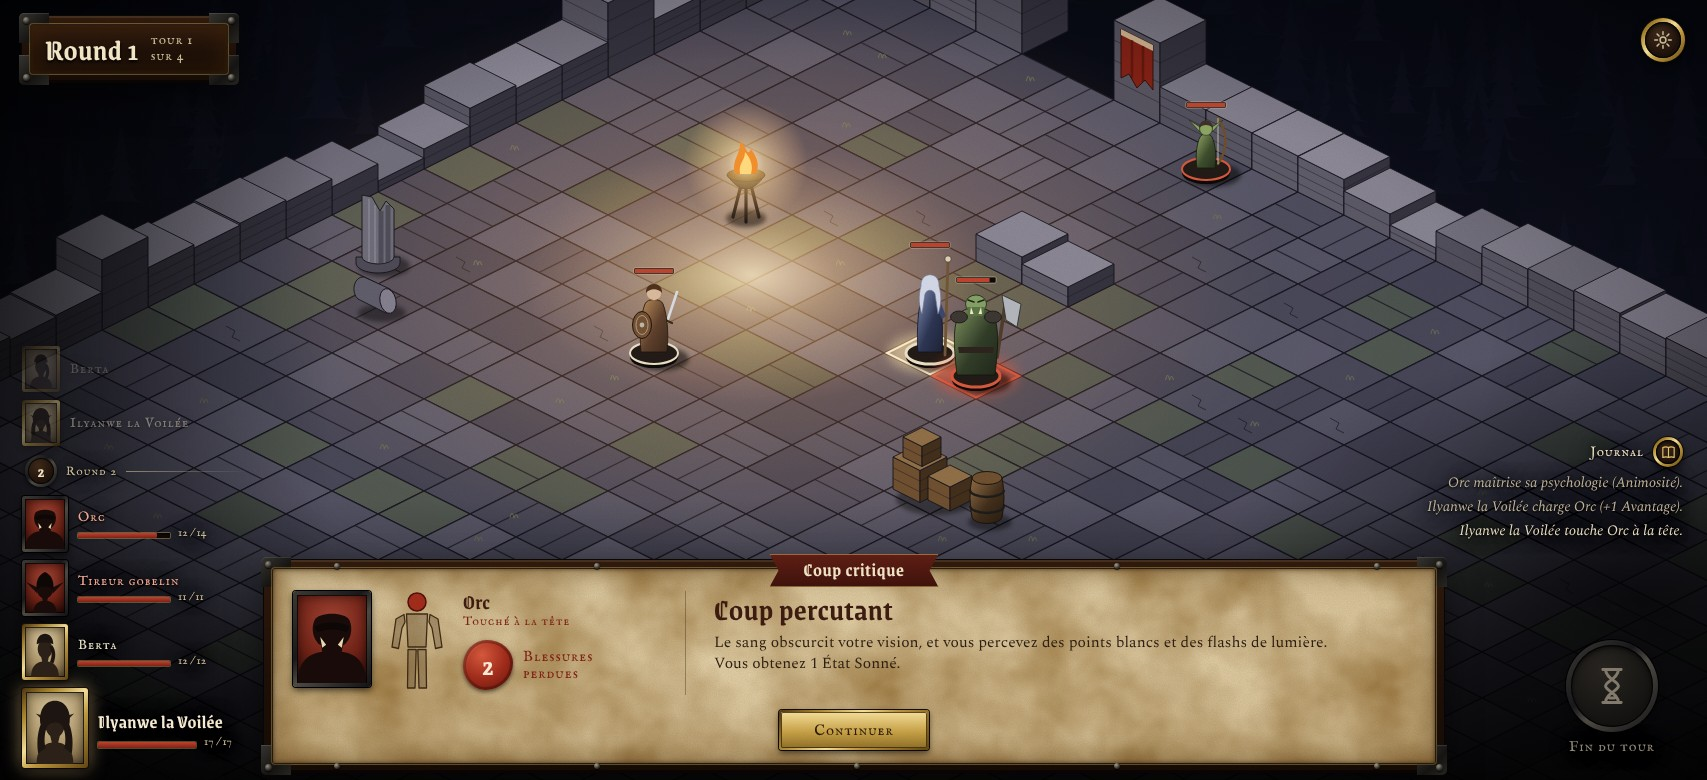
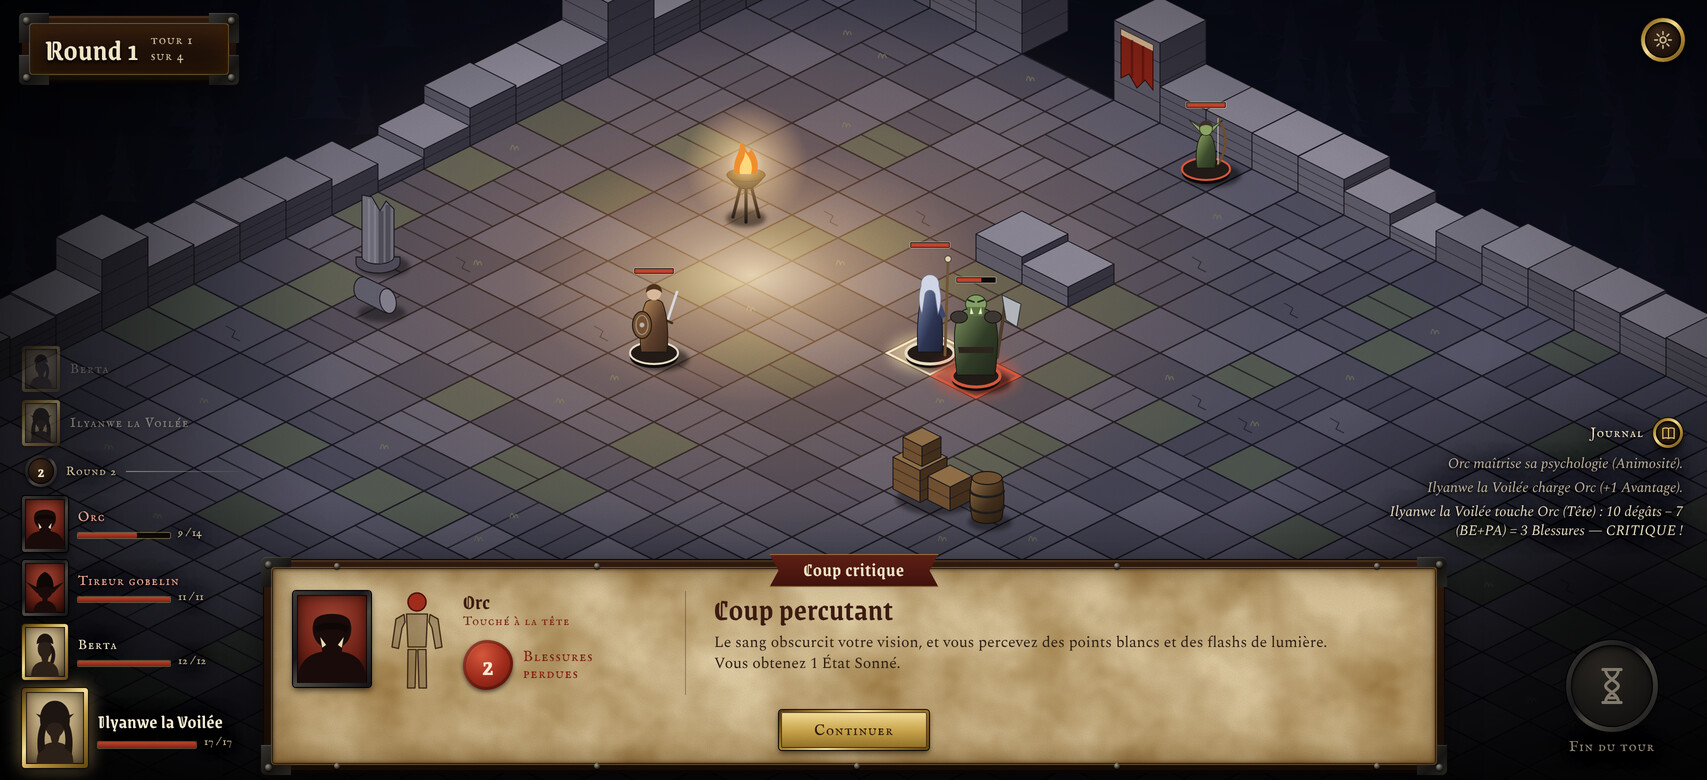
fix(godot): maquettes combat, début du round et coup critique alignés sur la règle (refs #4411)
Claude-Session: https://claude.ai/code/session_01319Eij4YBDVrTGQVfomn4e

diff --git a/hotes/godot/cibles/propositions/sources/combat/combat.js b/hotes/godot/cibles/propositions/sources/combat/combat.js
@@ -208,12 +208,14 @@ function pion(g, [x, y], { genre, camp, actif, cible, pv }) {
   el(g, 'rect', { x: x - w / 2, y: yb, width: w * pv, height: 4, fill: '#b9412c' });
 }
 const CALME = VAR === 'round' || FIN;
+/* LDB 14 l.3 : 10 dégâts − 7 (BE 4 + PA 3) = 3 Blessures du coup, puis 2 du Critique (LDB 18 l.65) */
+const PV_ORC = VAR === 'critique' ? 9 : 14;
 if (VAR !== 'defaite') {
   objet(...HEROS, (g, p) => pion(g, p, { genre: 'ilyanwe', camp: 'heros', actif: !ADVERSE && !CALME, pv: 1 }));
   objet(...BERTA, (g, p) => pion(g, p, { genre: 'berta', camp: 'heros', pv: 1 }));
 }
 if (VAR !== 'victoire') {
-  objet(...ORC, (g, p) => pion(g, p, { genre: 'orc', camp: 'ennemi', cible: !CALME, pv: VAR === 'critique' ? 12 / 14 : 1 }));
+  objet(...ORC, (g, p) => pion(g, p, { genre: 'orc', camp: 'ennemi', cible: !CALME, pv: PV_ORC / 14 }));
   objet(...GOBELIN, (g, p) => pion(g, p, { genre: 'gobelin', camp: 'ennemi', pv: 1 }));
 }
 { const g = el(S, 'g'); objets.sort((p, q) => p.z - q.z).forEach((o) => o.dessine(g, o.p)); }
@@ -264,7 +266,6 @@ const silhouette = (h, etats = {}) => `<svg class="silhouette" width="${h * .6}"
 
 const jeu = ETAT === 'jet';
 const ui = [];
-const PV_ORC = VAR === 'critique' ? 12 : 14;
 const I = (c = '', pv = 17) => rang('ilyanwe', 'heros', 'Ilyanwe la Voilée', pv, 17, c);
 const Be = (c = '') => rang('berta', 'heros', 'Berta', 12, 12, c);
 const G = (c = '', nom = 'Tireur gobelin') => rang('gobelin', 'ennemi', nom, 11, 11, c);
@@ -284,7 +285,7 @@ if (!FIN) {
   const LIGNES = {
     adverse: vieux('Berta se met en Défensive.') + vieux(TIR) + neuf(AVANCE),
     defense: vieux(TIR) + vieux(AVANCE) + neuf('Orc attaque Ilyanwe la Voilée.'),
-    critique: vieux(ORCP) + vieux(CHARGE) + neuf('Ilyanwe la Voilée touche Orc à la tête.'),
+    critique: vieux(ORCP) + vieux(CHARGE) + neuf('Ilyanwe la Voilée touche Orc (Tête) : 10 dégâts − 7 (BE+PA) = 3 Blessures — CRITIQUE !'),
     round: vieux(TIR) + vieux(AVANCE) + borneJ('Round 2'),
     journal: '',
   }[VAR] ?? (jeu && VAR !== 'incantation' ? vieux(GOB) + vieux(ORCP) + neuf(CHARGE) : borneJ('Le combat commence ! (Round 1)') + vieux(GOB) + neuf(ORCP));
@@ -380,8 +381,8 @@ if (!jeu) {
     plaque('Continuer', { armee: true })));
   else if (VAR === 'round') ui.push(bandeauDuJet('Début du round', 'debut', `
     <div class="annonce"><div class="dr gothique">Round 2</div><div class="sous rubrique">Agir en premier</div></div>
-    ${[['ilyanwe', 'Ilyanwe la Voilée', 'Sorcière', true], ['berta', 'Berta', 'Soldate', false]].map(([g, n, m, a]) => carte(n, m, { armee: a, portrait: portrait(g, 'heros') })).join('')}`,
-    plaque('Commencer le round', { armee: true, classe: 'large' })));
+    ${carte('Berta', 'Soldate <span class="modif rubrique">1 Chance</span>', { armee: true, portrait: portrait('berta', 'heros') })}`,
+    `${reserves([RESERVES.berta.chance, 'Chance de Berta'])}${plaque('Commencer le round', { armee: true, classe: 'large' })}`));
   else ui.push(bandeauDuJet('Attaque', '', `
     ${camp({ portrait: portrait('ilyanwe', 'heros'), nom: 'Ilyanwe la Voilée', carac: 'Corps à corps (Armes d’hast)', seuil: 48, des: ['90', '8'], total: 98, dr: '−5', modif: 'Avantage +10' })}
     <div id="verdict"><div class="sous rubrique">Bâton de combat · Cible : Orc</div><div class="dr gothique">DR net +1</div><p>Ilyanwe la Voilée rate son attaque ; Orc gagne +1 Avantage.</p></div>

diff --git a/hotes/godot/cibles/propositions/combat.md b/hotes/godot/cibles/propositions/combat.md
@@ -20,27 +20,41 @@ localisations) ; critique « Coup percutant » verbatim de `src/data/criticals.j
 - Silhouette à six zones et « Au hasard », « Retenir ses coups » en bascule, dés posés sans face.
 - À valider : une zone choisie (Tête, en laiton plein) plutôt que « Au hasard » ; malus en étiquette « −20 au Test »
   et seuil déjà corrigé ; « Au hasard » en petite plaque sombre ; bascule en interrupteur de fer à bouton de laiton ;
-  sceau de résultat avant le dé en empreinte vide ; gestes « Lancer » (laiton plein) et « Annuler », libellés absents
-  du jeu ; centre élargi de 300 à 380 px, le bandeau ne bouge pas.
+  sceau de résultat avant le dé en empreinte vide ; gestes « Lancer » (laiton plein, `verbe.lancer`), « Résilience »
+  (LDB 17 l.68) et « Annuler » (`verbe.annuler`), réserves du héros à gauche (`sources/combat/jet.js`) ; centre
+  élargi de 300 à 380 px, le bandeau ne bouge pas.
 
 ## jet-de-defense (J1 à J8)
 - Ruban « Défense », camp du joueur à gauche.
 - À valider : réussite en sceau de cire verte et verdict vert sombre (le kit ne fixait que la cire rouge de l'échec) ;
   DR net du vainqueur ; phrase d'issue avec la localisation (dé inversé 24 → 42, bras droit), sans dégâts.
+- Reste : le choix de la réaction avant le dé du défenseur (LDB 13 l.167) n'est pas dessiné, écran du lot suivant.
 
 ## incantation (J10)
 - Bandeau à un seul camp lanceur ; le centre porte le sort en gothique et « Sort · Niveau d'incantation 0 ».
 - À valider : cible à droite en bloc sans dé (portrait de fer, « Cible du sort », Blessures) ; seuil « Langue
   (Magick) ≤ 85 » d'exemple ; mêmes cinq gestes qu'à l'attaque.
+- Jet réussi (34 sous 85) : « Relancer » et « Résilience » fermés, la raison en bulle au survol (LDB 17 l.23, l.68) ;
+  « Chance : +1 DR » reste ouverte (LDB 17 l.24). 34 n'est pas un double : pas d'Incantation Critique à choisir
+  dans cet état (LDB 46 l.26-32).
 
 ## coup-critique (C1, C2, C3)
 - Le bandeau reste en place : à gauche la victime, sa silhouette, « Touché à la tête », sceau « 2 » Blessures
   perdues ; à droite le nom du Critique en gothique et le texte du livre en sérif droit ; un seul geste « Continuer ».
-- À valider : la barre de l'Orc passe à 12 / 14 dans l'ordre et sur le pion.
+- La barre de l'Orc compte le coup et le Critique (LDB 14 l.3) : 9 / 14 dans l'ordre et sur le pion, soit
+  10 dégâts − 7 (BE 4 + PA 3, `src/data/creatures.json`) = 3 Blessures, puis les 2 du Critique (LDB 18 l.65). Le
+  journal dit le coup au format du jeu (`touche.chiffree`, `touche.critique`, `src/i18n/messages/fr.ts:103-105`).
+- À valider : le DR net d'exemple du coup (+4, avec les Dégâts +6 du bâton) ; l'état montré est celui d'après
+  l'application des deux pertes.
 
 ## debut-du-round (R1)
-- Le choix dans le bandeau : « Agir en premier », deux cartes de héros pressables, la choisie en laiton plein ; un
-  geste « Commencer le round ».
+- Le choix dans le bandeau, carte puis plaque : « Agir en premier », une carte par héros offert, la choisie en
+  laiton plein ; la plaque « Commencer le round » commet.
+- Berta seule est offerte : Ilyanwe est déjà en tête de l'ordre (`src/noyau/turnEconomy.ts:43`).
+- La carte porte son coût, « 1 Chance » (LDB 17 l.25 ; une arme Rapide le rendrait gratuit, LDB 62 l.298-300,
+  `turnEconomy.ts:61`) ; la Chance de Berta en médaillon à gauche de la plaque.
+- Reste, hors maquette : le noyau dépense la Chance au clic de la carte (`src/noyau/combatSlice.ts:2160`), la
+  maquette au clic de la plaque (transversal §6 n° 4) ; le Tir rapide (LDB 11 l.97-103) vient au lot suivant.
 - À valider : cartouche « Round 2 · le round débute » ; personne d'agrandi dans l'ordre ; fin du tour fermée ;
   aucune marque au sol.
 
@@ -61,7 +75,9 @@ localisations) ; critique « Coup percutant » verbatim de `src/data/criticals.j
   de profil, niche à figure, onglets ; champ assombri à 42 % ; la croix de laiton de la charte (`sources/gestes.js`) sous la pastille du système.
 - À valider : la fiche ne prend pas tout l'écran, les ancrages restent visibles ; montrée sur Berta (un héros qui
   n'est pas l'actif) ; réserves sur une colonne ; linéale Inter Medium ; pas d'onglet « Sorts » (Berta n'est pas
-  lanceuse). La maquette de fiche montre « M 2 » pour Ilyanwe, le meuble 4 / 4 : écart à trancher.
+  lanceuse).
+- « M 2 » de la maquette de fiche contre 4 / 4 au meuble : sans objet. La fiche validée montre Ilyanwe À Terre
+  (0 / 17), son Mouvement effectif est la moitié de 4 (`src/engine/encumbrance.ts:53-66`) ; debout, le meuble dit 4.
 
 ## cible-survolee (T14, T15, T16)
 - Case cernée de cire rouge, infobulle de parchemin, zone atteignable à liseré, trajet en pointillé, socles de camp,
